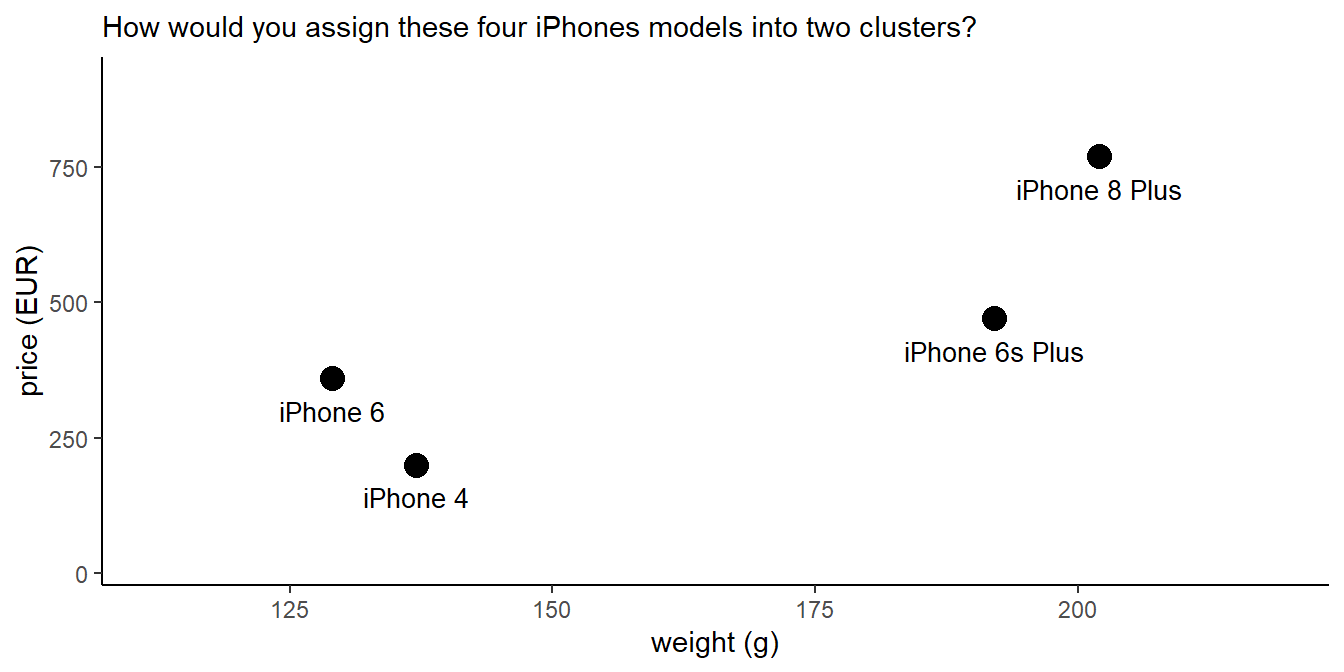
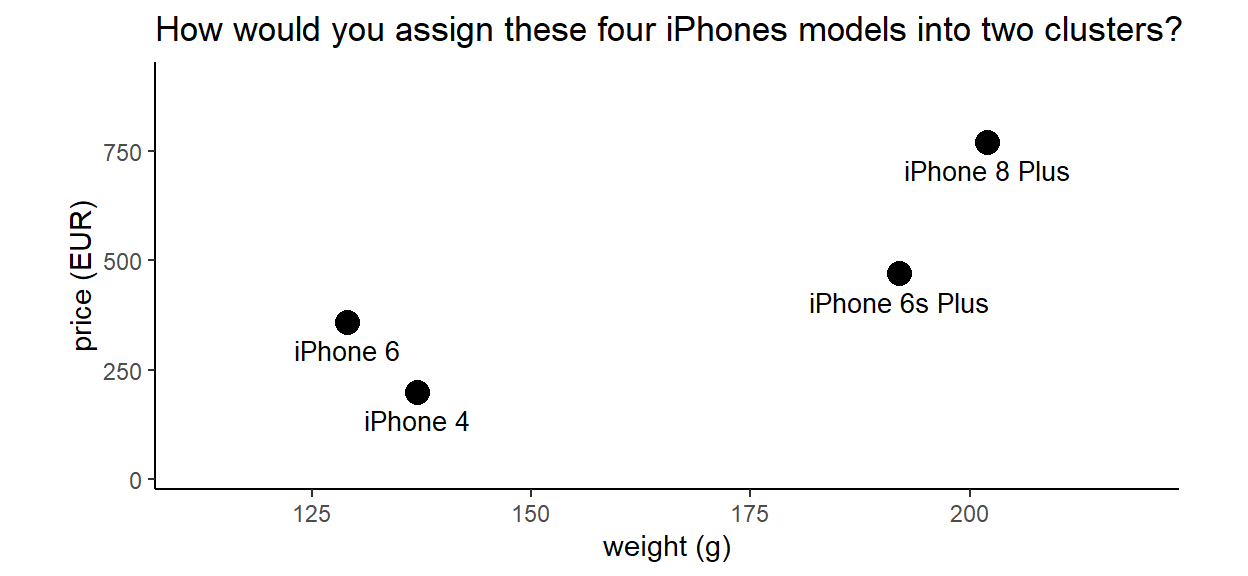
2nd pre-final draft. Use range standardization.

diff --git a/content/post/2019-07-27-effect-of-not-standardizing-variables-in-k-means-clustering.html b/content/post/2019-07-27-effect-of-not-standardizing-variables-in-k-means-clustering.html
@@ -20,11 +20,12 @@ bibliography: bibliography.bib
 <li><a href="#surprise">Surprise</a></li>
 <li><a href="#original-variables">Original variables</a></li>
 <li><a href="#standardized-variables">Standardized variables</a></li>
+<li><a href="#conclusions">Conclusions</a></li>
 <li><a href="#references">References</a></li>
 </ul>
 </div>
 
-<p>The process of clustering usually involves variable scaling / standardization. This post illustrates the effect of this data pre-processing step on the result of k-means clustering using a small data set of iPhones.</p>
+<p>The process of clustering usually involves variable standardization. This post illustrates the effect of this data pre-processing step on the result of k-means clustering using a small data set of iPhones.</p>
 <hr />
 <div id="clustering-distances-k-means" class="section level1">
 <h1>Clustering, distances, k-means</h1>
@@ -34,16 +35,18 @@ bibliography: bibliography.bib
 <li>while observations in different groups are quite “different” from each other.</li>
 </ul>
 <p>There are many possible ways to define the concept of “(dis)similarity”, but by far the most common choice involves squared Euclidean distance <span class="citation">(James et al. 2017, 385)</span>.</p>
+<!-- TODO: Check pages -->
 <p>The Euclidean distance of two points <span class="math inline">\((x_1, y_1)\)</span> and <span class="math inline">\((x_2,y_2)\)</span> in a 2-dimensional space is calculated as</p>
 <p><span class="math display">\[\sqrt{(x_2−x_1)^2+(y_2−y_1)^2}\text{.}\]</span>
-For example, if we are given two points with coordinates (1, 2) and (3, 4) then the Euclidean distance <span class="math inline">\(d\)</span> between these points is approximately 2.8:</p>
+For example, if we are given two points with coordinates (1, 2) and (4, 6) then the Euclidean distance <span class="math inline">\(d\)</span> between these points is 5:</p>
 <p><img src="/post/2019-07-27-effect-of-not-standardizing-variables-in-k-means-clustering_files/figure-html/plot_distance-1.png" width="480" style="display: block; margin: auto;" /></p>
-<p>Let’s take k-means clustering. The algorithm aims to partition observations into <em>k</em> groups such that the sum of squared <em>distances</em> from observations to the assigned cluster centres is minimized. In the example plotted below, there are two distinct clusters (<span class="math inline">\(k=2\)</span>) with 10 observations in each. Cluster centers are highlighted with coloured crosses.</p>
+<p>Let’s take k-means clustering. The algorithm aims to partition observations into <em>k</em> groups such that the sum of squared <em>distances</em> from observations to the assigned cluster centers is minimized. In the example plotted below, there are two distinct clusters (<span class="math inline">\(k=2\)</span>) with 10 observations in each. Cluster centers are highlighted with coloured crosses.</p>
 <p><img src="/post/2019-07-27-effect-of-not-standardizing-variables-in-k-means-clustering_files/figure-html/plot_clusters-1.png" width="384" style="display: block; margin: auto;" /></p>
 </div>
 <div id="surprise" class="section level1">
 <h1>Surprise</h1>
 <p>Imagine you have observed prices and weights of four iPhone models. Here is the data (also available <a href="iphone_dataset.csv">here</a>):</p>
+<!-- TODO: check link -->
 <pre class="r"><code># Attach packages.
 library(tidyverse)
 # Import phone data.
@@ -125,24 +128,23 @@ iPhone 8 Plus
 </tbody>
 </table>
 <p>The plot below depicts four iPhone models in two dimensions: approximate price in euro and weight in grams. Please do a mental exercise and assign these four iPhone models into two clusters. Which phones did you assign into cluster 1 and which into cluster 2?</p>
-<p><img src="/post/2019-07-27-effect-of-not-standardizing-variables-in-k-means-clustering_files/figure-html/plot_surprise_1_question-1.png" width="672" style="display: block; margin: auto;" /></p>
-<p>Did you assign iPhone 6 and 4 into one cluster and iPhone 8 Plus and 6s Plus into another? That’s not what k-means would do without standardizing variables.</p>
+<p><img src="/post/2019-07-27-effect-of-not-standardizing-variables-in-k-means-clustering_files/figure-html/plot_surprise_1_question-1.png" width="624" style="display: block; margin: auto;" /></p>
+<p>Did you assign iPhone 6 and 4 into one cluster and iPhone 8 Plus and 6s Plus into another? That’s not what k-means would do without standardizing the variables.</p>
 </div>
 <div id="original-variables" class="section level1">
 <h1>Original variables</h1>
-<p>Below is the result from k-means with <span class="math inline">\(k=2\)</span>. iPhone 8 Plus is alone in cluster 1 and three other phones are in cluster 2:</p>
+<p>Let’s check by performing k-means with <span class="math inline">\(k=2\)</span>.</p>
 <pre class="r"><code># Data for clustering.
 phones_cl &lt;- phones_df[c(&quot;approx_price_eur&quot;, &quot;weight_g&quot;)]
 # Reproducibility.
 set.seed(4)
 # K-means with original variables.
 kmeans_orig &lt;- kmeans(phones_cl, centers = 2)</code></pre>
-<p>Hopefully, you are surprised.</p>
+<p>The result is plotted below with iPhone 8 Plus being alone in cluster 1 and all other phones in cluster 2. Hopefully, you are surprised.</p>
 <p><img src="/post/2019-07-27-effect-of-not-standardizing-variables-in-k-means-clustering_files/figure-html/plot_kmeans_orig-1.png" width="672" style="display: block; margin: auto;" /></p>
-<p>The trick is in the variability of prices and weights. The range of prices is 200 - 770 = 570, while the range of weights is 129 - 202 = 73. The price range is 7.8 times greater than the weight range. It means that in a calculation of Euclidean distances, 1 euro difference in price is equivalent to 7.8 gram difference in weight. Thus, a small difference in price may outweigh a big difference in weight. In other words, price affects k-means results more than weight.</p>
-<p>If we re-plot the same data set while ensuring that one unit on the x-axis (euros) has the same length as one unit on the y-axis (grams), the k-means result is no more a surprise:</p>
-<p><img src="/post/2019-07-27-effect-of-not-standardizing-variables-in-k-means-clustering_files/figure-html/plot_kmeans_orig_coord_equal-1.png" width="672" style="display: block; margin: auto;" /></p>
-<p>Here are pairwise Euclidean distances calculated with <code>dist()</code>:</p>
+<p>The catch is in the visualization - notice that x and y axes have different scales. One unit on the x axis (i.e. 1 gram) corresponds to exactly 20 units on the y axis (i.e. 20 euro). It means that the Euclidean distance between 125 and 150 grams (difference of 25 grams) on your screen exactly equals the distance between 250 and 750 euros (difference of 500 euros). As a result, diagonal distances are hard to evaluate visually. It seems that iPhone 6s Plus is significantly closer to iPhone 8 Plus than to iPhone 6. But it’s an illusion. Note the distances on the plot below:</p>
+<p><img src="/post/2019-07-27-effect-of-not-standardizing-variables-in-k-means-clustering_files/figure-html/plot_kmeans_orig_with_dist-1.png" width="672" style="display: block; margin: auto;" /></p>
+<p>All pairwise Euclidean distances can be calculated with <code>dist()</code>:</p>
 <pre class="r"><code># Add rownames to see phone models in a distance matrix.
 phones_cl &lt;- as.data.frame(phones_cl)
 rownames(phones_cl) &lt;- phones_df$model
@@ -152,35 +154,48 @@ round(dist(phones_cl), 1)</code></pre>
 ## iPhone 6          160.2                        
 ## iPhone 6s Plus    275.5    126.8               
 ## iPhone 8 Plus     573.7    416.4          300.2</code></pre>
-<p>Notice how far iPhone 8 Plus is from all other phones.</p>
+<!-- Notice how far iPhone 8 Plus is from all other phones. -->
+<!--  -->
+<p>If we re-plot the same data set while ensuring that one unit on the x-axis (i.e. 1 gram) has the same length as one unit on the y-axis (i.e. 1 euro), the k-means result is no more a surprise:</p>
+<p><img src="/post/2019-07-27-effect-of-not-standardizing-variables-in-k-means-clustering_files/figure-html/plot_kmeans_orig_coord_equal-1.png" width="672" style="display: block; margin: auto;" /></p>
+<p>Now this clustering may look correct. However, acknowledge that if phone weights in iPhones data set were instead recorded in milligrams (i.e. multiply current weight values with 1,000) then prices would no longer affect the clustering results. The weight would become the only variable affecting the clustering. <strong>In general, variables with higher variation have a higher impact on the Euclidean distance calculations and, as a result, clustering results.</strong> We can resolve this problem by standardizing the data prior to the clustering.</p>
 </div>
 <div id="standardized-variables" class="section level1">
 <h1>Standardized variables</h1>
-<p>Consider standardizing each variable by subtracting the mean <span class="math inline">\(\bar{x}\)</span> (i.e. centering) and dividing by its standard deviation <span class="math inline">\(s\)</span>:</p>
+<p>Different standardization methods are available, including z-standardization (also called z-score standardization) and range standardizaton. Z-standardization rescales each variable by subtracting the mean <span class="math inline">\(\bar{x}\)</span> and dividing by its standard deviation <span class="math inline">\(s\)</span>:</p>
 <p><span class="math display">\[Z=\frac{X-\bar{x}}{s}.\]</span></p>
-<p>This equalizes the variability in data (<span class="math inline">\(s=1\)</span> for each variable) and makes price and weight equally important for k-means clustering. Here are variables standardized with <code>scale()</code>:</p>
-<pre class="r"><code>phones_cl_scaled &lt;- scale(phones_cl)
-as_tibble(phones_cl_scaled)</code></pre>
-<pre><code>## # A tibble: 4 x 2
-##   approx_price_eur weight_g
-##              &lt;dbl&gt;    &lt;dbl&gt;
-## 1          -1.04     -0.750
-## 2          -0.374    -0.965
-## 3           0.0832    0.724
-## 4           1.33      0.991</code></pre>
-<p>And corresponding distances:</p>
+<p>After z-standardization each variable has a mean <span class="math inline">\(\bar{x}\)</span> of 0 and a standard deviation <span class="math inline">\(s\)</span> of 1. Z-standardization can be done with <code>scale()</code>.</p>
+<p>In cluster analysis, however, range standardization (e.g., to a range of 0 to 1) typically works better <span class="citation">(Milligan and Cooper 1988)</span>. Range standardization requires subtracting the minimum value of every observation and then dividing it by the range (i.e., the difference between the maximum and minimum value):</p>
+<p><span class="math display">\[R = \frac{X - X_{min}}{X_{max} - X_{min}}\]</span></p>
+<p>We can write a one-line function to perform range standardization in R:</p>
+<pre class="r"><code>standardize_range &lt;- function(x) {(x - min(x)) / (max(x) - min(x))}</code></pre>
+<p>Then apply our new function to each column with <code>apply()</code>:</p>
+<pre class="r"><code>phones_cl_scaled &lt;- apply(phones_cl, MARGIN = 2, FUN = standardize_range)
+phones_cl_scaled</code></pre>
+<pre><code>##                approx_price_eur  weight_g
+## iPhone 4              0.0000000 0.1095890
+## iPhone 6              0.2807018 0.0000000
+## iPhone 6s Plus        0.4736842 0.8630137
+## iPhone 8 Plus         1.0000000 1.0000000</code></pre>
+<p>Notice each column now has a range of one.</p>
+<p>Now repeat k-means clustering with <span class="math inline">\(k=2\)</span> using standardized variables.</p>
+<pre class="r"><code>set.seed(1)
+kmeans_scaled &lt;- kmeans(phones_cl_scaled, centers = 2)</code></pre>
+<p>And here is the result:</p>
+<p><img src="/post/2019-07-27-effect-of-not-standardizing-variables-in-k-means-clustering_files/figure-html/plot_kmeans_scaled_standardized_measurements-1.png" width="672" style="display: block; margin: auto;" /></p>
+<p>iPhone 4 and 6 are now in cluster 1 and iPhone 8Plus and 6s Plus are in cluster 2. Below are distances calculated from standardized units:</p>
 <pre class="r"><code>round(dist(phones_cl_scaled), 1)</code></pre>
 <pre><code>##                iPhone 4 iPhone 6 iPhone 6s Plus
-## iPhone 6            0.7                        
-## iPhone 6s Plus      1.9      1.7               
-## iPhone 8 Plus       2.9      2.6            1.3</code></pre>
-<p>Notice that iPhone 6s Plus is now closest to iPhone 8 Plus. K-means clustering changes accordingly.</p>
-<pre class="r"><code>kmeans_scaled &lt;- kmeans(phones_cl_scaled, centers = 2)</code></pre>
-<p>The plot below shows k-means clustering using standardized variables:</p>
-<p><img src="/post/2019-07-27-effect-of-not-standardizing-variables-in-k-means-clustering_files/figure-html/plot_kmeans_scaled_standardized_measurements-1.png" width="672" style="display: block; margin: auto;" /></p>
+## iPhone 6            0.3                        
+## iPhone 6s Plus      0.9      0.9               
+## iPhone 8 Plus       1.3      1.2            0.5</code></pre>
 <hr />
 <p>To summarize, here are side-by-side k-means clustering results for <span class="math inline">\(k=2\)</span> with original variables (left) and standardized variables (right):</p>
 <p><img src="/post/2019-07-27-effect-of-not-standardizing-variables-in-k-means-clustering_files/figure-html/plot_kmeans_combined-1.png" width="672" style="display: block; margin: auto;" /></p>
+</div>
+<div id="conclusions" class="section level1">
+<h1>Conclusions</h1>
+<p>Beware of differences in variation of variables used for clustering as variables with higher variation have a higher impact on clustering. The choise of variable standardization methods should depend on the type of data and problem at hand and there is no single best method of standardization. As <span class="citation">(James et al. 2017, 385)</span> recommend, always try different standardization methods as see which offers most valuable insights. <span class="citation">(Milligan and Cooper 1988)</span> suggest that range standardization typically works better for clustering.</p>
 <hr>
 <p>I would appreciate any comments or suggestions. Please leave them below, no login required if you check “I’d rather post as a guest”.</p>
 </div>
@@ -189,6 +204,9 @@ as_tibble(phones_cl_scaled)</code></pre>
 <div id="refs" class="references">
 <div id="ref-james_witten_hastie_tibshirani_2017">
 <p>James, Gareth, Daniela Witten, Trevor Hastie, and Robert Tibshirani. 2017. <em>An Introduction to Statistical Learning: With Applications in R</em>. Springer. <a href="http://faculty.marshall.usc.edu/gareth-james/ISL/">http://faculty.marshall.usc.edu/gareth-james/ISL/</a>.</p>
+</div>
+<div id="ref-milligan_cooper">
+<p>Milligan, Glenn W., and Martha C. Cooper. 1988. “A Study of Standardization of Variables in Cluster Analysis.” <em>SpringerLink</em>. Springer-Verlag. <a href="https://doi.org/10.1007/BF01897163">https://doi.org/10.1007/BF01897163</a>.</p>
 </div>
 </div>
 </div>
